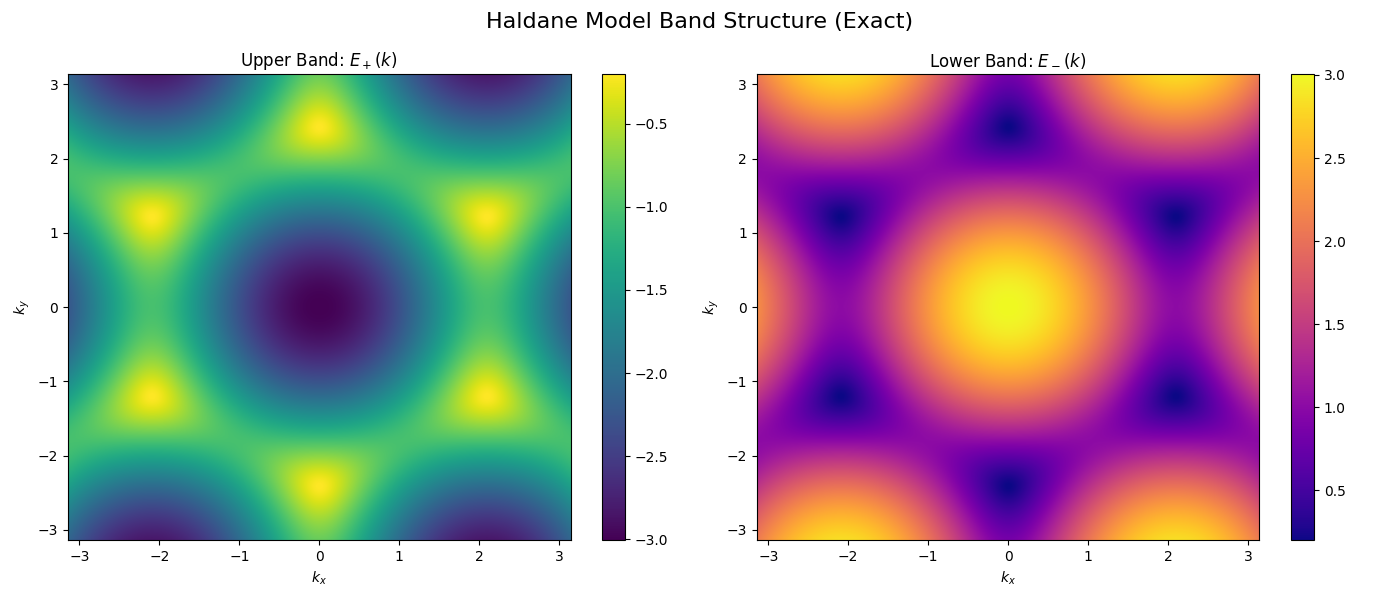
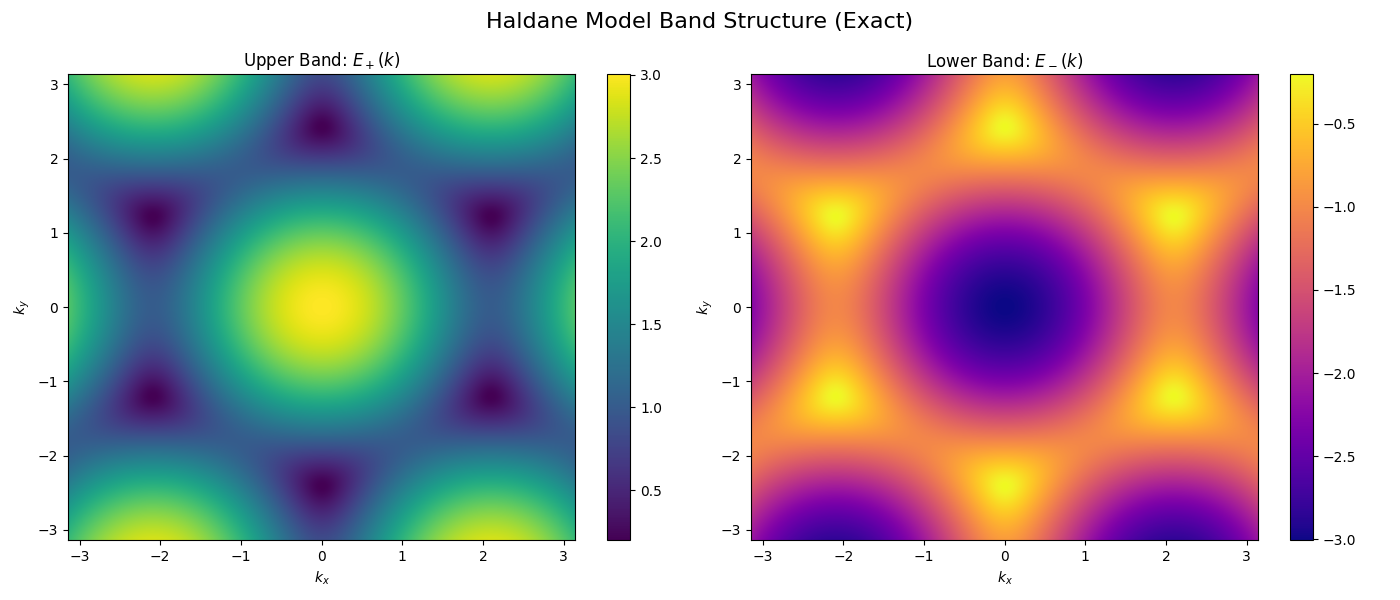
Minor heatmap fix

diff --git a/scripts/haldane-model/utils.py b/scripts/haldane-model/utils.py
@@ -39,7 +39,7 @@ def band_structure_exact(t1: float, t2: float, M: float, a_vecs: list[list[float
             hz += M
             for b in b_vecs:
                 hz += 2*t2*np.sin(np.dot(k, b))
-            result[(kx, ky)] = np.sqrt(hx**2+hy**2+hz**2)
+            result[(kx, ky)] = -np.sqrt(hx**2+hy**2+hz**2)
             print("E(["+str(round(kx, 3))+", "+str(round(ky, 3))+"]) = "+str(round(result[(kx, ky)], 3)))
     return result
 
